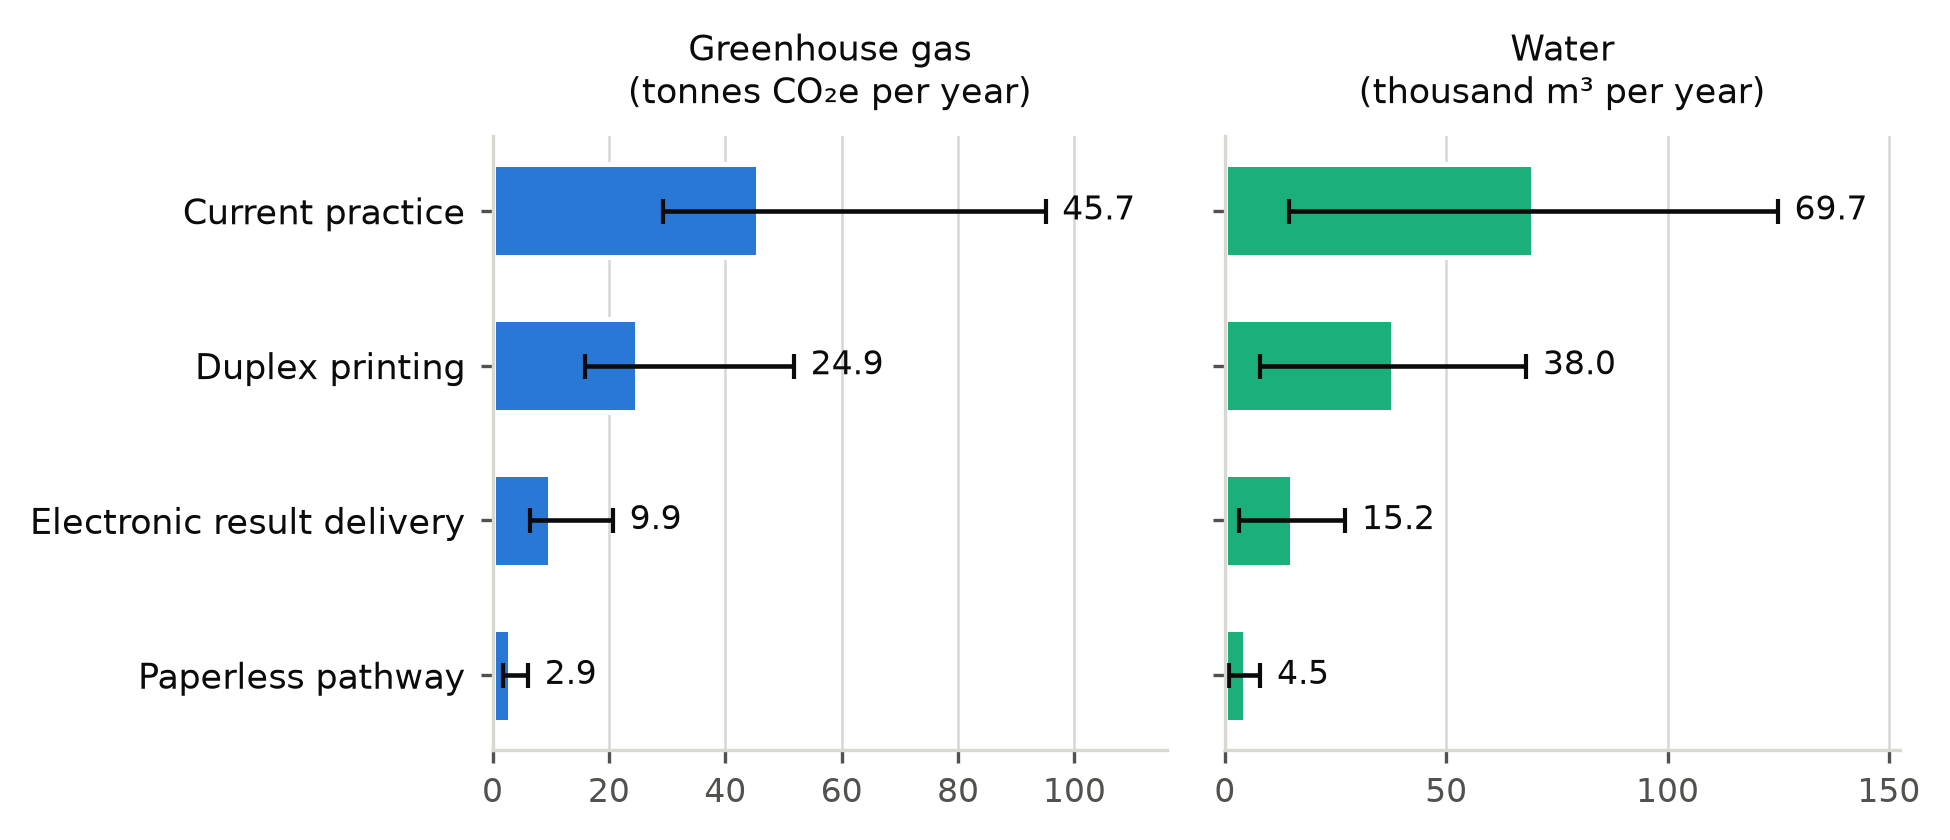
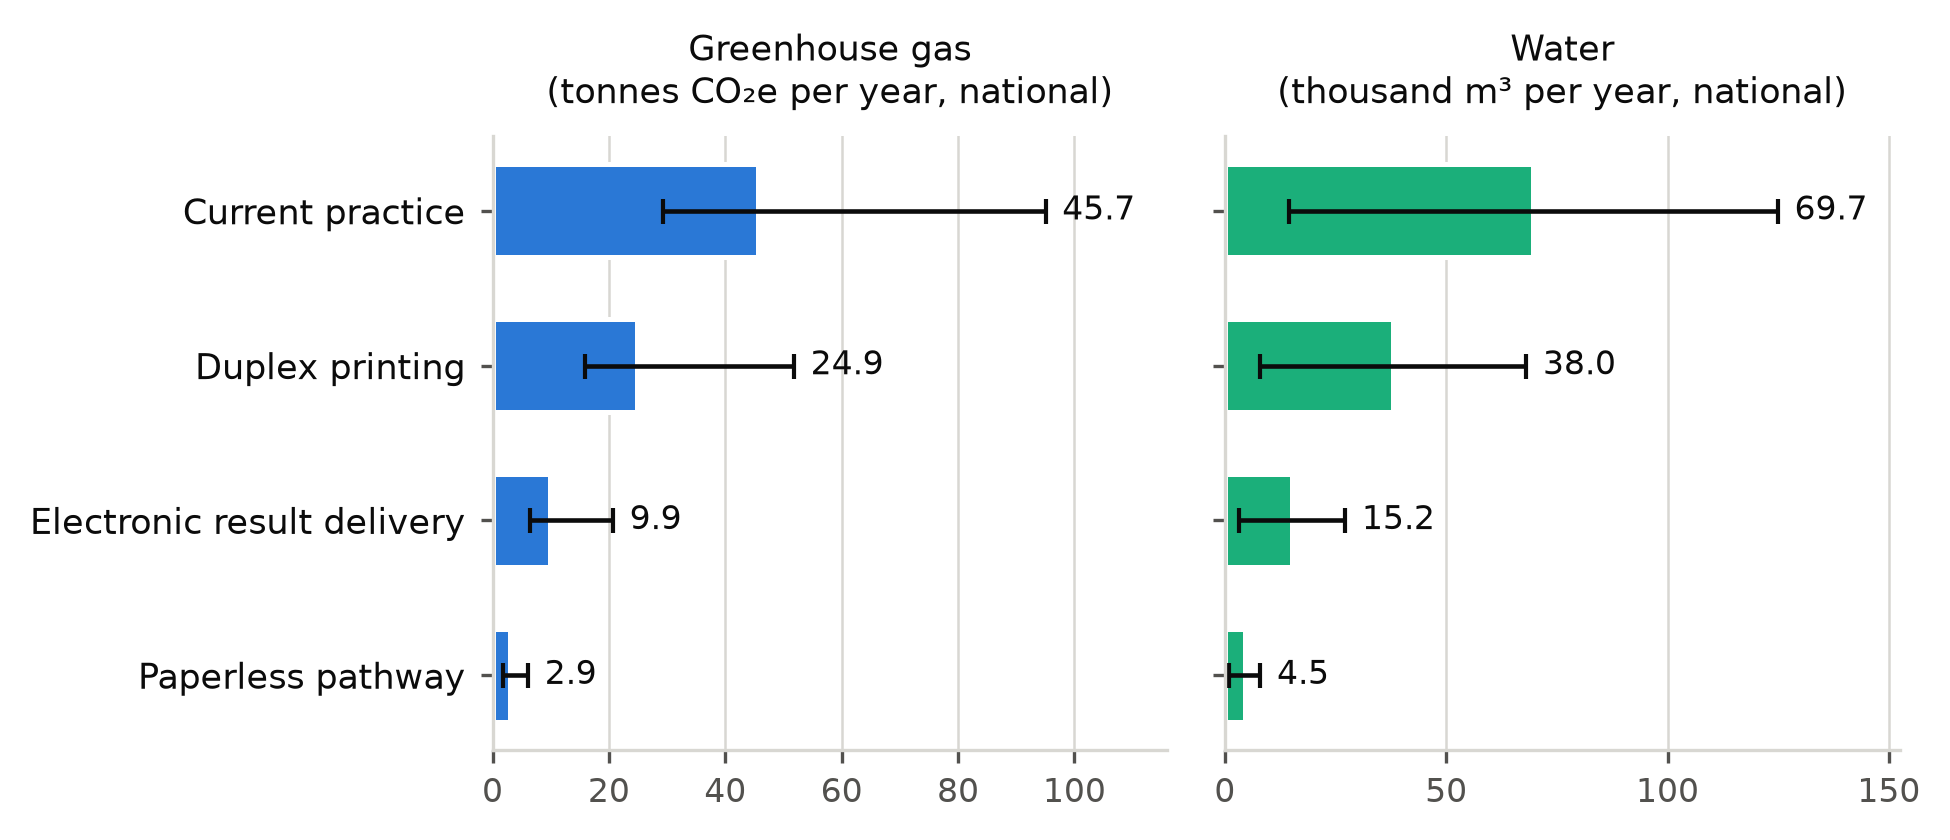
Label the scale on figure 5
Figures 3 and 4 name the national scale in the axis label; figure 5 did
not, leaving the reader to find it in the legend. Both panel titles now
say national, and the legends for figures 1 and 2 state that those values
are per care episode and therefore scale-independent.

Claude-Session: https://claude.ai/code/session_01SHGvgn1XeZPuGWHj4pB41h

Changed region(s): [[0.6462, 0.0929, 0.9538, 0.1238], [0.2769, 0.0929, 0.5846, 0.1238]]

diff --git a/manuscripts/obstetric-paper-burden/analysis/analysis.py b/manuscripts/obstetric-paper-burden/analysis/analysis.py
@@ -267,11 +267,11 @@ def fig_environment(rows, params, out):
     """
     labs = [r["label"] for r in rows][::-1]
     y = range(len(labs))
-    panels = [("Greenhouse gas\n(tonnes CO\u2082e per year)", SERIES[0],
+    panels = [("Greenhouse gas\n(tonnes CO\u2082e per year, national)", SERIES[0],
                [r["national"]["co2e_t"] for r in rows][::-1],
                [r["national"]["co2e_t_low"] for r in rows][::-1],
                [r["national"]["co2e_t_high"] for r in rows][::-1], "{:.1f}", 1),
-              ("Water\n(thousand m\u00b3 per year)", SERIES[2],
+              ("Water\n(thousand m\u00b3 per year, national)", SERIES[2],
                [r["national"]["water_m3"] / 1000 for r in rows][::-1],
                [r["national"]["water_m3_low"] / 1000 for r in rows][::-1],
                [r["national"]["water_m3_high"] / 1000 for r in rows][::-1], "{:.1f}", 1)]

diff --git a/manuscripts/obstetric-paper-burden/manuscript.md b/manuscripts/obstetric-paper-burden/manuscript.md
@@ -360,9 +360,9 @@ Data are available ⟦on reasonable request / in a public repository⟧. The per
 
 # FIGURE LEGENDS
 
-**Figure 1.** Mean printed pages per care episode by document family, split by document role. Diagnostic reports (solid fill) account for 61.7% of all pages; referrals (hatched) for 13.4%; clinical records (dotted) for 24.9%. Each diagnostic referral generates exactly four report pages.
+**Figure 1.** Mean printed pages per care episode by document family, split by document role. Values are per care episode and therefore independent of departmental or national volume. Diagnostic reports (solid fill) account for 61.7% of all pages; referrals (hatched) for 13.4%; clinical records (dotted) for 24.9%. Each diagnostic referral generates exactly four report pages.
 
-**Figure 2.** Distribution of total printed pages per care episode (n = 100). Dashed line, mean 131.3 pages. The distribution is symmetric and narrow (IQR 124 to 138), indicating that documentation volume behaves as a near-fixed cost of the care pathway.
+**Figure 2.** Distribution of total printed pages per care episode in the study sample (n = 100). Dashed line, mean 131.3 pages. The distribution is symmetric and narrow (IQR 124 to 138), indicating that documentation volume behaves as a near-fixed cost of the care pathway.
 
 **Figure 3.** Annual national paper consumption by scenario, at 77,500 care episodes per year. Percentages are reductions relative to current practice. At departmental scale (2,000 episodes per year) the same scenarios correspond to 1.24, 0.68, 0.27 and 0.08 tonnes per year. The mass reduction under duplex printing does not carry through to consumable cost, because toner is charged per printed page (Table 2).
 
